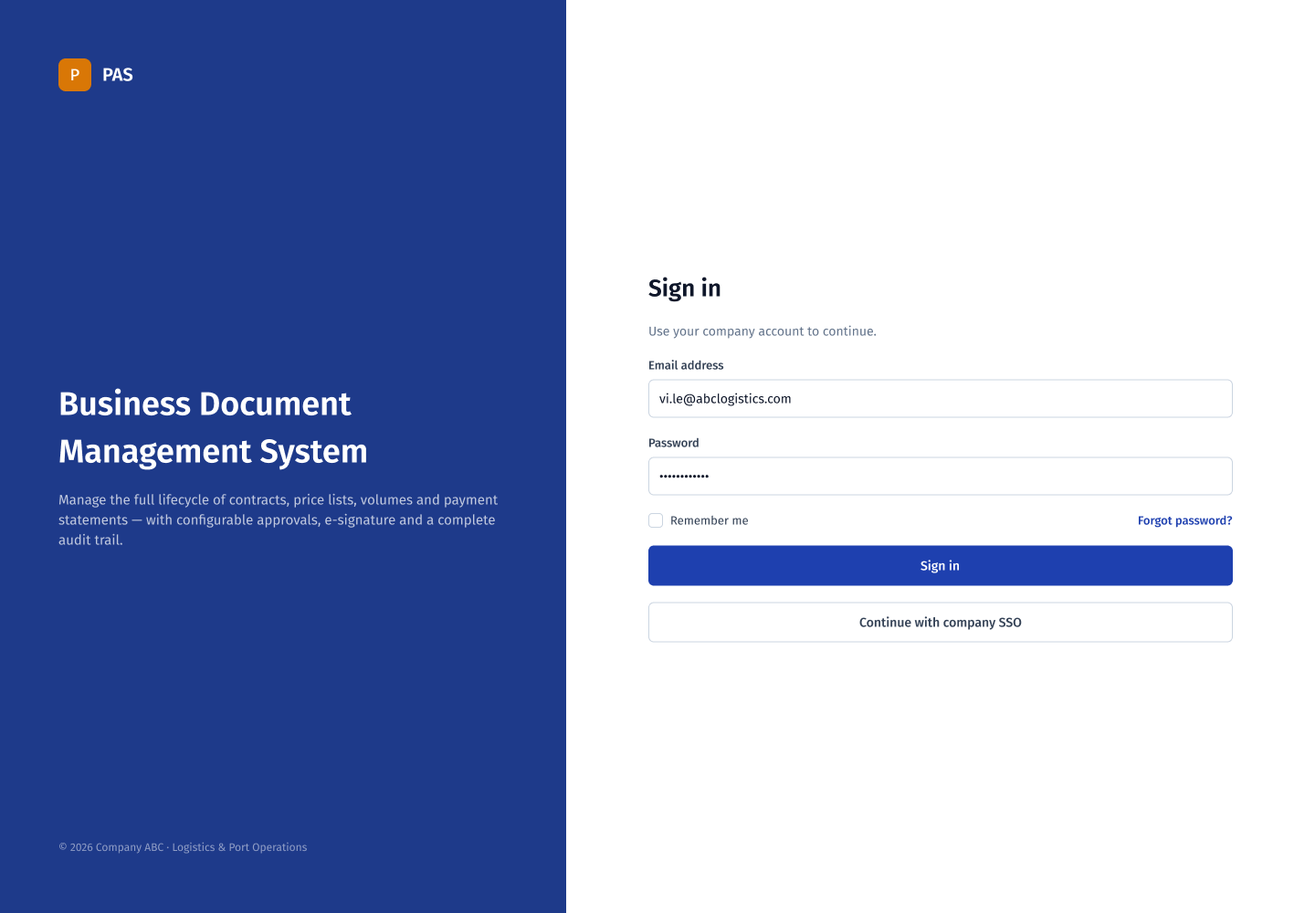
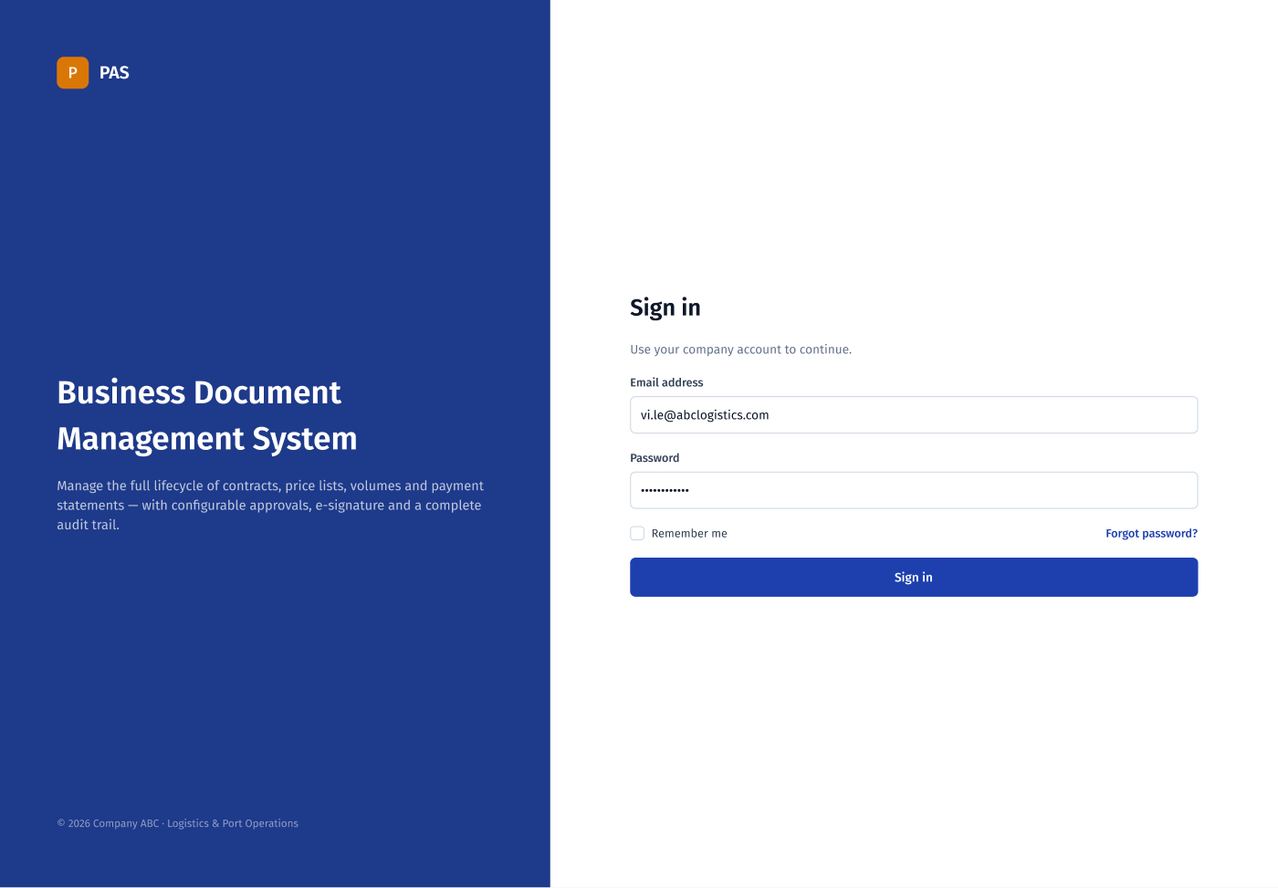
design: identity-service audit fixes (permissions, assignee scope, ER FKs, Figma)

diff --git a/scripts/gen_er_drawio.py b/scripts/gen_er_drawio.py
@@ -85,7 +85,14 @@ SPECS = {
                 ("FK", "department_id uuid", "department"),
                 ("", "status text", None),
                 ("", "last_login_at timestamptz", None),
-            ] + STD_COLS),
+                ("", "created_at timestamptz", None),
+                # Only identity-service has app_user in-schema with audit/actor columns —
+                # everywhere else created_by/updated_by/actor_id are opaque cross-schema
+                # uuids (D7/D12, no FK). Here they're genuinely local: real FK to app_user.
+                ("FK", "created_by uuid", "app_user"),
+                ("", "updated_at timestamptz", None),
+                ("FK", "updated_by uuid", "app_user"),
+            ]),
             ("role", 40, 320, [
                 ("PK", "id uuid", None),
                 ("", "code text", None),
@@ -104,7 +111,25 @@ SPECS = {
                 ("PK,FK", "role_id uuid", "role"),
                 ("PK,FK", "permission_id uuid", "permission"),
             ]),
-            (AUDIT_LOG[0], 760, 140, AUDIT_LOG[1]),
+            ("audit_log", 760, 140, [
+                ("PK", "id uuid", None),
+                ("", "entity_type text", None),
+                ("", "entity_id uuid", None),
+                ("", "entity_no text", None),
+                ("", "action text", None),
+                # In every other service audit_log.actor_id is an opaque cross-schema
+                # uuid (it names an identity.app_user, D7/D12, no FK). Identity is the
+                # one schema where actor_id points at a table it actually owns.
+                ("FK", "actor_id uuid", "app_user"),
+                ("", "actor_name text", None),
+                ("", "actor_department text", None),
+                ("", "before_status text", None),
+                ("", "after_status text", None),
+                ("", "changes jsonb", None),
+                ("", "note text", None),
+                ("", "ip_address text", None),
+                ("", "created_at timestamptz", None),
+            ]),
         ],
         "ghosts": [],
     },

diff --git a/docs/design/db/db-workflow.md b/docs/design/db/db-workflow.md
@@ -3,14 +3,21 @@
 Schema `workflow`, owned by workflow-service — the configurable approval engine (4.7). Diagram: [db-workflow.drawio](db-workflow.drawio).
 
 ## Key decisions
-- **Definition / instance split with pinned versions**: `workflow_definition.version_no` + partial unique `(document_type_id) WHERE is_active` (one active per doc type). Instances pin `definition_id`, so an admin edit mid-flight never mutates a running approval. Admin "edit" = insert new definition version + flip `is_active`.
+- **Definition / instance split with pinned versions**: `workflow_definition.version_no` + partial unique `(document_type_id) WHERE is_active` (one active per doc type). Instances pin `definition_id`, so an admin edit mid-flight never mutates a running approval. Admin "edit" = insert new definition version + flip `is_active`, gated by permission `workflow.configure` (checked against the caller's JWT `permissions[]` claim, registry §6 — not a schema concern here).
 - **Not a BPMN engine**: ordered sequential steps only. **Parallel approval is out of scope** — no requirement backs it and Figma shows only "Parallel: No"; noted so nobody adds a column speculatively.
-- **Conditional steps** (Figma "Condition: value > 1B"): `condition_expr` = a single comparison against instance snapshot fields (`document_value > 1000000000`), evaluated **once at instance creation**; unmet ⇒ step created as `SKIPPED`. Unevaluable (NULL operand, e.g. a value condition on a document without a value) ⇒ **not** skipped — conservative default. This keeps APR-02 intact (humans can never skip; config can).
+- **Conditional steps** (Figma "Condition: value > 1B"): `condition_expr` = a single comparison against instance snapshot fields (`document_value > 1000000000`), evaluated **once at instance creation**; unmet ⇒ step created as `SKIPPED`. Unevaluable (NULL operand, e.g. a value condition on a document without a value) ⇒ **not** skipped — conservative default. This keeps APR-02 intact (humans can never skip; config can). Assignee resolution (below) happens in the same pass, for every step that isn't `SKIPPED`.
 - **D4 double-submit**: partial unique index `(document_type_code, document_id) WHERE status='IN_PROGRESS'` — the second concurrent `POST /internal/workflow-instances` fails on the constraint and returns the existing instance (idempotent).
 - **D5 approve race**: `workflow_step_instance.version` optimistic lock — the action UPDATE carries `WHERE id=? AND version=? AND status='ACTIVE'`; the concurrent loser gets 0 rows and a 409, and the `status='ACTIVE'` predicate (not the version alone) is what rejects actions on completed or pending steps (APR-02).
 - **Cancellation**: `POST /internal/workflow-instances/{id}/cancel` (registry §5), called by the owner service inside its document-cancel flow (retried on failure, APR-07 spirit). Succeeds only while no step has been actioned (409 otherwise); sets instance → CANCELLED, the ACTIVE step → CANCELLED via the same version-guarded UPDATE (closing the approve-vs-cancel race), and all PENDING steps → CANCELLED. The same PENDING→CANCELLED sweep runs when an instance terminates early (REJECTED / REVISION_REQUESTED). No `instance_cancelled` event — inbox queries reflect the state immediately.
-- **Empty assignee resolution**: if a step's role resolves to zero users at instance creation, the submit fails with a clear error (admin must fix role assignments) — no instance is created, nothing strands.
-- **APR-01 contextual auth**: `step_assignee` rows are the **snapshot of who may act**, resolved from identity (`GET /internal/users?role=`) at step activation. Authorization = caller ∈ assignees of the ACTIVE step — role alone is insufficient by design ("Manager A can't approve Manager B's step"). No per-step user override (`approver_user_id` was considered and cut — registry §7 chains are role-only, nothing backs it). Inbox tabs: **Assigned to me** = ACTIVE steps where caller ∈ `step_assignee`; **Team queue** = ACTIVE steps whose `approver_role` ∈ caller's roles (catches users granted the role after activation); **Submitted by me** = instances where `requested_by` = caller; **Completed** = caller's past `workflow_action` rows.
+- **Resolution timing, made explicit**: `step_assignee` for **every** non-SKIPPED step — not just the first — is populated in the same instance-creation transaction as the condition-expr pass, by calling identity once per distinct role. This is deliberate, not lazy per-step resolution at activation: resolving the whole chain upfront is what lets a missing assignee on step 3 fail the submission immediately, instead of only surfacing after steps 1–2 are already approved.
+- **Empty assignee resolution**: if any step's role resolves to zero users at that instance-creation pass, the submit fails with a clear error (admin must fix role assignments) — no instance is created, nothing strands. Identity's `GET /internal/users?role=` returns `status='ACTIVE'` users only (registry §5), so a role whose every holder is `DISABLED` resolves to zero and hits this same safeguard, rather than silently assigning a step to someone who can never act on it.
+- **APR-01 contextual auth**: `step_assignee` rows are the **snapshot of who may act**, resolved from identity (`GET /internal/users?role=`) at instance creation (see above — not at step activation, which only flips `workflow_step_instance.status` to `ACTIVE` for whichever step is next). At instance creation, all `ACTIVE` users holding the configured step role are snapshotted into `step_assignee`. Only users in this snapshot may act; possessing the role later is insufficient. Disabled users and users granted the role after instance creation cannot act. This gives APR-01 meaningful contextual enforcement:
+  - Role holder but not in snapshot → denied
+  - Snapshotted assignee on an inactive/completed step → denied
+  - Snapshotted assignee on the current ACTIVE step → allowed
+
+  No per-step user override (`approver_user_id` was considered and cut — registry §7 chains are role-only, nothing backs it). Inbox tabs: **Assigned to me** = ACTIVE steps where caller ∈ `step_assignee`; **Submitted by me** = instances where `requested_by` = caller; **Completed** = caller's past `workflow_action` rows. No **Team queue** tab (dropped — see Figma discrepancies below); one consequence stated plainly: a user granted the role *after* an instance's step already activated has no way to see or act on that step. Accepted — nothing requires live reassignment, and building visibility for it would need the same claim/reassign machinery the drop is avoiding.
+- **APR-01 scope limitation, documented honestly**: per-manager document ownership is **not modeled**, because the requirements do not define document-to-manager assignment — no account/document-manager ownership concept, no assignee-selection algorithm, no UI for choosing a manager, and no per-step assignment strategy exist anywhere in requirement.md, UC v2, Figma, or the registry. Therefore, when a step's role resolves to more than one active user (e.g. two Legal Reviewers), **all of them** are valid assignees — the first valid action completes the step; concurrent actions are protected by optimistic locking (D5), not by narrowing to one specific person. This is a **documented interpretation** of the ambiguous contextual-authorization line in req §5.5 ("Manager A không được duyệt hồ sơ của Manager B nếu không phải assignee của bước hiện tại") — not a claim that req §5's general "nhóm được phép điều chỉnh" permission covers it (that sentence is specifically about adjusting the provided state-machine diagrams, D14, not about interpreting ambiguous authorization rules). Adding real per-manager ownership (e.g. a `customer.account_manager_id` restricting only the `SALES_MANAGER` steps to one specific user) would introduce a new business concept across schema, API, Figma, workflow resolution, and tests — a scoped later extension if the instructor confirms "Manager B's hồ sơ" means explicit account ownership, not something to introduce speculatively now.
 - **APR-03**: `workflow_action.comment` + `CHECK (action = 'APPROVE' OR (comment IS NOT NULL AND comment <> ''))`.
 - **Instance snapshots** (`document_no`, `customer_name`, `document_value`, `priority`): make the Approvals Inbox renderable without querying owner services and feed `condition_expr` + event payloads (D7). `priority` from Figma (LOW/NORMAL/HIGH/URGENT).
 - **E-sign is not a step** (D10 / 5.5): the Figma builder's "E-signature" card maps to `document_type_config.esign_enabled` + provider config; the engine ends at final approval (APR-05).
@@ -31,8 +38,9 @@ Schema `workflow`, owned by workflow-service — the configurable approval engin
 | 5.5 double submit / race | D4 partial unique / D5 version column |
 
 ## Figma adoptions / discrepancies
-- Adopted: step names, SLA, condition, priority, inbox tabs (Assigned to me / Submitted by me / Team queue / Completed — all queries over these tables).
+- Adopted: step names, SLA, condition, priority, inbox tabs (Assigned to me / Submitted by me / Completed — queries over these tables).
 - Discrepancy: drag-reorder = `step_order` updates on a **new** definition version.
+- Dropped: Figma's **Team queue** tab. Not in requirement.md or UC v2, not needed to satisfy APR-01 (which requires excluding non-assignees, not adding a broader role-pool view), and it would have surfaced tasks the viewer isn't actually the assignee of — no claim/reassign or view-only logic added to compensate.
 
 ## Constraints & indexes (not shown in the diagram)
 - Partial UNIQUE: `workflow_definition (document_type_id) WHERE is_active`; `workflow_instance (document_type_code, document_id) WHERE status = 'IN_PROGRESS'` (D4).

diff --git a/docs/design/00-registry.md b/docs/design/00-registry.md
@@ -82,7 +82,7 @@ All service-to-service calls (frontend→gateway→service omitted). Paths indic
 | billing → contract | `GET /internal/contracts/{id}` | validity, vat_rate, payment_term, customer snapshot (PAY-01) |
 | billing → pricing | `GET /internal/price-lists/effective?contract_id&customer_id&service_group&date` | effective version + lines for snapshot (PAY-01/03). Resolution precedence: CONTRACT-scoped > CUSTOMER+GROUP > CUSTOMER. `date` = the statement's `period_end`; lookup is **historical** — includes SUPERSEDED/EXPIRED versions whose validity contains `date` |
 | billing → operations | `GET /internal/volumes?contract_id&period_code` | volumes + period lock state (PAY-02) |
-| workflow → identity | `GET /internal/users?role={role_code}` | resolve step role → assignees at activation (APR-01) |
+| workflow → identity | `GET /internal/users?role={role_code}` | resolve step role → assignees for every non-SKIPPED step, in one pass at instance creation (APR-01); returns `status='ACTIVE'` users only |
 | esign → contract | `GET /internal/contracts/{id}/signing-payload` (also addenda) | document render for provider (D10) |
 | esign → billing | `GET /internal/payment-statements/{id}/signing-payload` | document render for provider (D10) |
 | owner services → workflow | `POST /internal/workflow-instances` (idempotent, D4) | start approval on submit |
@@ -90,7 +90,7 @@ All service-to-service calls (frontend→gateway→service omitted). Paths indic
 | owner services → workflow | `POST /internal/workflow-instances/{id}/cancel` | cancel in-flight approval when the document is cancelled (retried on failure, APR-07 spirit) |
 | approver (via gateway) → workflow | `POST /workflow-steps/{step_instance_id}/actions` | approve/reject/request-revision (D5, APR-01..03) |
 | owner services → esign | `POST /internal/signing-sessions` | manual send-for-signing (D10) |
-| notification → identity | `GET /internal/users?role={role_code}` | resolve `recipient_role`-addressed events to users (§4) |
+| notification → identity | `GET /internal/users?role={role_code}` | resolve `recipient_role`-addressed events to users (§4); returns `status='ACTIVE'` users only |
 | esign-mock-provider → esign | `POST /callbacks/esign` (webhook) | async sign result (APR-06) |
 
 ## 6. Common column & table conventions
@@ -98,7 +98,7 @@ All service-to-service calls (frontend→gateway→service omitted). Paths indic
 - `id UUID PK DEFAULT gen_random_uuid()`; `created_at timestamptz NOT NULL DEFAULT now()`; `created_by uuid` (+ `created_by_name text` where displayed); `updated_at`, `updated_by`; `version int NOT NULL DEFAULT 0` **only** where a race is real (D5 targets).
 - Status columns: `text` + `CHECK` against §3 enums.
 - Cross-service references: opaque `uuid` (+ business-number/name snapshot columns where the UI or history needs them, D7). Never a real FK across schemas. **Two business-key exceptions** (stable, human-legible codes): `pricing.service_item.code` (referenced as `service_code` by operations/billing) and `operations.operation_period.period_code` (referenced by billing).
-- **JWT claims** (issued by identity, checked at gateway D11): `sub` (user id), `username`, `full_name`, `department`, `roles[]` (§7 codes), `jti` (Redis blacklist key), `exp`.
+- **JWT claims** (issued by identity, checked at gateway D11): `sub` (user id), `username`, `full_name`, `department`, `roles[]` (§7 codes), `permissions[]` (§10 codes, computed by identity at issuance via `role_permission`), `jti` (Redis blacklist key), `exp`. Services checking a named permission (`volume.edit_locked`, `contract.cancel_active`, `statement.cancel_approved`, `workflow.configure`, `user.manage`, `audit.view_all`) read this claim directly — no sync call to identity; a permission grant/revoke takes effect at the user's next token issuance, same as role changes.
 - **audit_log** (one per service schema, written in-transaction):
   `id, entity_type text, entity_id uuid, entity_no text, action text (snake_case verb: submit_for_approval, approve_step, lock_volume_period, …), actor_id uuid NULL (NULL = system), actor_name text, actor_department text, before_status text, after_status text, changes jsonb, note text, ip_address text, created_at` (fields per Figma Audit Log screen).
 - **outbox** (only in event-emitting services with `Outbox? = yes`):
@@ -123,7 +123,7 @@ The Figma builder's "E-signature" card is **not** a step — it maps to `documen
 
 ## 8. Shared UI components (Figma)
 
-Status badge (label mapping §3) · workflow progress stepper (doc detail right panel) · approvals task inbox (Assigned to me / Submitted by me / Team queue / Completed) · notification bell + list (categories: `APPROVAL, ESIGN, EXPIRY, SYSTEM`) · document history tab (audit per entity) · reconciliation check panel (statement detail) · record metadata card.
+Status badge (label mapping §3) · workflow progress stepper (doc detail right panel) · approvals task inbox (Assigned to me / Submitted by me / Completed — no Team queue, dropped, see db-workflow.md) · notification bell + list (categories: `APPROVAL, ESIGN, EXPIRY, SYSTEM`) · document history tab (audit per entity) · reconciliation check panel (statement detail) · record metadata card.
 
 ## 9. Allowed state transitions
 
@@ -196,3 +196,7 @@ Status badge (label mapping §3) · workflow progress stepper (doc detail right 
 - 2026-07-24 — Phase 2 drafting delta: `document.expiring` payload +`owner_user_id`; `operations.period_locked` payload +`recipient_role`; recipient-resolution note; API matrix +notification→identity. Affected artifacts: db-notification.md (already consistent).
 - 2026-07-24 — Phase 2 critic round 1 fixes: event payloads +`requested_by`/`document_no`/`signer_name` (notification addressing); dropped `esign.session_started` event (no consumer need); workflow cancel endpoint (§5); pricing effective-lookup params + precedence + historical semantics (§5); predecessor-truncation footnote ³ (PRC-03×PRC-04); submit/cancel wiring footnote ¹; addendum-effect footnote ²; statement deviations footnote ⁴ (D14f); signing-session max-attempts→FAILED; JWT claims + business-key exceptions (§6); CUS numbering (§2). Affected artifacts: all db-* (verified in round 2).
 - 2026-07-24 — Figma corrected to match the requirement on the status-vocabulary and e-sign-as-step discrepancies this registry had recorded (plan §1.4): contract `ACTIVE` now displays "Active" (not "Effective"); payment statement `ISSUED` now displays "Issued" (not "Effective"); customer list now uses `Badge/Active`/`Badge/Suspended` directly (not document badges); Administration's workflow builder no longer renders e-signature as a numbered approval step (now a separate "Post-approval action" block). §3 display-label notes updated accordingly. Affected artifacts: db-contract.md, db-billing.md, db-workflow.md (updated in the same pass).
+- 2026-07-24 — Permission-propagation fix: identity's `permission`/`role_permission` tables had no path to the services that gate on them. JWT claims (§6) gain `permissions[]`, computed from `role_permission` at token issuance, checked locally by the owning service — no new sync endpoint. Affected artifacts: design-plan.md (D11), db-identity.md, db-contract.md, db-operations.md, db-billing.md, db-workflow.md.
+- 2026-07-24 — Assignee-resolution fix: `GET /internal/users?role={role_code}` (§5, both callers) now states it returns `status='ACTIVE'` users only — a `DISABLED` user can no longer be resolved as a new workflow step assignee or a `recipient_role` notification target. Also resolved a timing contradiction this introduced: §5 said assignees resolve "at activation" while db-workflow.md's empty-assignee-resolution safeguard assumed "at instance creation" — both can't be true. Unified on **instance creation**: assignees for every non-SKIPPED step are resolved in one pass when the instance is created (same pass as `condition_expr` evaluation), so a zero-assignee step anywhere in the chain fails the submission immediately instead of surfacing only when that step is later reached. Affected artifacts: db-identity.md, db-workflow.md, db-notification.md.
+- 2026-07-24 — Team queue tab dropped from the approvals task inbox (§8): not in requirement.md or UC v2, not needed for APR-01, and it surfaced tasks the viewer wasn't the actual assignee of — a broader-role-pool view the anti-over-engineering rule doesn't justify. Inbox is now 3 tabs: Assigned to me / Submitted by me / Completed. Accepted consequence: a user granted a role after a step activates has no visibility into that step (no claim/reassign mechanism exists, and none is being added). Affected artifacts: db-workflow.md, feedback.md, Figma Approvals Inbox screen (12-approvals-inbox.png).
+- 2026-07-24 — APR-01 assignment model locked as **Option A** (all active role-holders are valid assignees, no per-manager ownership) over two alternatives considered (candidates + concrete Workflow-side selection; config-identified specific manager) — both would require inventing an account-ownership concept, a selection algorithm, and a UI nowhere present in requirement.md/UC v2/Figma/registry. Documented as an explicit interpretation of req §5.5's ambiguous "Manager A/Manager B" contextual-authorization line, not as something req §5's general adjustment-permission clause covers (that clause is specifically about the provided state-machine diagrams, D14). Affected artifacts: db-workflow.md (APR-01 bullets rewritten with the enforcement invariants and the honest limitation).

diff --git a/docs/design/db/db-identity.md b/docs/design/db/db-identity.md
@@ -8,6 +8,9 @@ Schema `identity`, owned by identity-service. Diagram: [db-identity.drawio](db-i
 - **`last_login_at`, `status ACTIVE|DISABLED`**: from Figma Administration screen (user list shows both).
 - **No outbox / processed_event**: identity emits no events and consumes none; workflow and notification call it synchronously (`GET /internal/users?role=`).
 - Password hashing: bcrypt/argon2 — implementation detail, no schema impact beyond `password_hash text`.
+- **Permissions ride the JWT, not a lookup endpoint**: `permissions[]` is computed at token issuance (`user_role → role_permission → permission`) and embedded alongside `roles[]` (registry §6). This is why there's no `GET /internal/users/{id}/permissions` endpoint — contract, operations, billing and workflow each check their permission (`contract.cancel_active`, `volume.edit_locked`, `statement.cancel_approved`, `workflow.configure`) directly against the claim, the same way they'd check a role; identity-service checks its own `user.manage` the same way for its user/role administration endpoints, rather than special-casing itself. A grant/revoke via "Phân quyền" takes effect at the user's next token issuance, not immediately — accepted, same staleness `roles[]` already has.
+- **`GET /internal/users?role=` returns `status='ACTIVE'` users only** (registry §5): a `DISABLED` user can never be newly resolved as a workflow step assignee (APR-01) or a `recipient_role` notification target (§4) — closes the case where every holder of a role has left/been disabled and a submitted document would otherwise wait on someone who can no longer act. This is filtered here, at the resolution query, rather than left to the caller. Residual, accepted gap: a user disabled *after* already being snapshotted onto an active step isn't retroactively removed (`step_assignee` is a point-in-time snapshot, D7) — only strands the step if they were its sole assignee; live reassignment isn't attempted since no requirement asks for it.
+- **`app_user.created_by`/`updated_by` and `audit_log.actor_id` are real FKs here, unlike everywhere else**: every other service's `created_by`/`updated_by`/`actor_id` names a user in the *identity* schema, so it's rightly an opaque cross-schema `uuid` with no FK (D7/D12). Identity is the one schema where `app_user` and `audit_log` are local to each other — the diagram now draws these as real self-referencing FKs to `app_user.id` (previously it mechanically reused the cross-schema convention even here). All three are **nullable**: `created_by`/`updated_by` NULL for the system-seeded first user; `actor_id` NULL for automated actions (registry §6 audit_log shape already specifies this). FK action is `ON DELETE RESTRICT` (the Postgres default) — not `SET NULL` — because `app_user` rows are never physically deleted in this design, only flipped to `DISABLED` (registry §3 USER enum); there is no delete path for the constraint to react to.
 
 ## Seeds (registry §7, §10)
 Departments `SALES, LEGAL, ACCOUNTING, OPERATIONS, BOARD, IT`; roles `SALES_OFFICER, SALES_MANAGER, LEGAL_REVIEWER, ACCOUNTANT, OPS_OFFICER, DIRECTOR, SYSTEM_ADMIN`; permissions `volume.edit_locked, contract.cancel_active, statement.cancel_approved, workflow.configure, user.manage, audit.view_all`.
@@ -18,14 +21,18 @@ Departments `SALES, LEGAL, ACCOUNTING, OPERATIONS, BOARD, IT`; roles `SALES_OFFI
 | Admin UC "Quản lý người dùng" | `app_user` CRUD + `status` |
 | Admin UC "Phân quyền" | `user_role`, `role_permission` |
 | req §6 JWT | issued here; validated at gateway (D11 layer 1) |
-| APR-01 assignee resolution | `GET /internal/users?role=` consumed by workflow at step activation |
+| APR-01 assignee resolution | `GET /internal/users?role=` consumed by workflow once per role, for every non-SKIPPED step, at instance creation |
 | 4.5 "quyền đặc biệt" | permission `volume.edit_locked` |
+| Permission propagation (`contract.cancel_active`, `volume.edit_locked`, `statement.cancel_approved`, `workflow.configure`, `user.manage`) | `role_permission` joined into JWT `permissions[]` at issuance (registry §6) — no separate endpoint |
 
 ## Figma adoptions / discrepancies
 - Adopted: `last_login_at`, user `status` badge (Active/Disabled), department + role columns.
-- None contradicting requirements.
+- **Dropped: "Continue with company SSO"** (was on the login screen, node `8:32`). No requirement backing (req §6 asks for plain JWT auth only) and not cheap — a real implementation needs an external IdP, OAuth/SAML client config, and JIT user provisioning, none of which any other artifact assumes. Removed from the Figma login screen directly (not just noted) since, unlike the sidebar-by-role screen, this isn't a state worth demonstrating both ways — it's a permanent scope cut.
+- **Deferred: "Forgot password?"** (login screen, node `8:29`) — left in place in Figma as UI-only. No requirement backs a reset flow either, but unlike SSO it could be built cheaply later (a short-lived signed link, no `password_reset_token` table) if ever needed; no backend exists for it in this design, and the login screen keeps the link for visual completeness only.
+- None else contradicting requirements.
 
 ## Constraints & indexes (not shown in the diagram)
 - UNIQUE: `department.code`, `app_user.username`, `app_user.email`, `role.code`, `permission.code`.
 - Composite PKs: `user_role (user_id, role_id)`, `role_permission (role_id, permission_id)`.
 - `app_user.status` CHECK vs registry §3 USER enum; std cols per registry §6.
+- Self-referencing FKs (drawn in the diagram, unique to this schema — see Key decisions): `app_user.created_by → app_user.id`, `app_user.updated_by → app_user.id`, `audit_log.actor_id → app_user.id`; all three `NULL`able, `ON DELETE RESTRICT`.

diff --git a/docs/design-plan.md b/docs/design-plan.md
@@ -62,7 +62,7 @@ Decisions are numbered `D#` so artifacts and critics can reference them.
 - **D8 — Addendum price changes go through pricing, manually.** If an addendum changes unit prices, **Sales manually creates a new price list version from the addendum screen** after the addendum is approved; it carries `addendum_id`, `valid_from` = addendum effective date, and goes through the normal price-list approval flow. No automation, no `addendum.*` event. Billing therefore resolves prices from pricing-service only — one source of truth (4.3 "nghiệp vụ sau thời điểm hiệu lực dùng thông tin mới" + PRC-04).
 - **D9 — Expiry warnings** (contract/price list sắp hết hạn, 4.9): the *owning* service runs a scheduled check and emits `document.expiring` events — published **directly, without outbox**: a lost warning self-heals on the next scheduled run, so outbox here would be over-engineering. Notification-service never queries other services' data.
 - **D10 — E-sign scope & initiation.** E-sign applies to **contracts, addenda and payment statements** (price lists are internal, never signed). Backing: req 4.8 speaks of "hồ sơ" generically, req §2 gives Sales "theo dõi tình trạng ký kết" (tracking contract signing), and the Figma E-Signatures screen shows CTR/ADD/PMT sessions. esign-service is generic over `(document_type, document_id)`. **Send-for-signing is a manual action by the document owner** (Accounting for statements per use case edge e18; Sales for contracts/addenda) on an **Approved** document; esign-service fetches the signing payload via a sync GET from the owning service. No event-triggered auto-send on approval (APR-05's "có thể" is exercised as a manual trigger). Signing status is a **separate** state machine from approval status (5.5 last row) — in particular, e-sign is **not** a workflow step even though the Figma admin builder renders it as one: the builder card maps to `document_type_config` (esign enabled + provider), and the document-detail timeline is a composed view (workflow steps + signing session status). Signing is **optional** for contracts/addenda: an Approved contract with no signing session still becomes Active at its effective date.
-- **D11 — Two-layer authorization.** Gateway: JWT validity + coarse role check. Services: contextual checks — especially workflow-service verifying *the caller is the assignee of the current step* (APR-01: "kiểm tra role là chưa đủ").
+- **D11 — Two-layer authorization.** Gateway: JWT validity + coarse role check. Services: contextual checks — especially workflow-service verifying *the caller is the assignee of the current step* (APR-01: "kiểm tra role là chưa đủ"). Named permissions (`volume.edit_locked`, `contract.cancel_active`, `statement.cancel_approved`, `workflow.configure`, `user.manage`, `audit.view_all` — registry §10) are checked by the owning service directly against the JWT's `permissions[]` claim (registry §6) — no separate sync call to identity; same mechanism and staleness as `roles[]`.
 - **D12 — DB layout.** One PostgreSQL instance in dev, **schema per service**, no cross-schema queries (justification req §6 demands: service isolation with student-project ops simplicity; swap to DB-per-service in K8s if desired without design change).
 - **D13 — Tech stack for design artifacts.** Backend assumed FastAPI (Python) for concreteness in sequence diagrams; nothing in the diagrams may depend on it beyond naming.
 - **D14 — Transition table + documented deviations.** The registry holds an **allowed-transitions table** per document type: `(from_status, trigger, to_status)` with `trigger ∈ {user action, workflow event, scheduler}` — the single source for schema CHECKs, sequence arrows, and UI action visibility. Four holes in the requirement's state diagrams are resolved as documented deviations (permitted by req §5 "nhóm được phép điều chỉnh, nhưng phải giải thích"):

diff --git a/docs/design/db/db-operations.md b/docs/design/db/db-operations.md
@@ -5,7 +5,7 @@ Schema `operations`, owned by operations-service. Diagram: [db-operations.drawio
 ## Key decisions
 - **Global monthly period** (`period_code 'YYYY-MM'`), one lock for all customers/contracts (plan 2.4 default). Simplest model satisfying 4.5; per-customer locking has no requirement backing.
 - **Lock = confirmation (PAY-02)**: a volume record has **no per-record status** — the period's `LOCKED` state is the "đã xác nhận/đối soát" signal billing checks. One mechanism instead of two.
-- **No unlock transition** (registry §9). Post-lock edits: permission `volume.edit_locked` + mandatory audit entry (4.5 "quyền đặc biệt"). Deliberately not schema-enforced — the service checks period status + permission.
+- **No unlock transition** (registry §9). Post-lock edits: permission `volume.edit_locked` + mandatory audit entry (4.5 "quyền đặc biệt"). Deliberately not schema-enforced — the service checks period status + permission (read from the caller's JWT `permissions[]` claim, registry §6 — no sync call to identity).
 - **`contract_id` required** on `volume_record` even though the Figma list omits the column: statements are per contract (PAY-01), so volume→contract mapping must be unambiguous at entry time, not inferred later. `customer_name`/`service_name`/`unit` snapshots make the Figma list renderable without cross-service joins (D7).
 - **Events**: emits `operations.period_locked` (direct publish — informational "statements can now be generated" notification, Figma; a lost one costs nothing). Consumes nothing → no processed_event.
 

diff --git a/docs/design/db/db-notification.md b/docs/design/db/db-notification.md
@@ -4,7 +4,7 @@ Schema `notification`, owned by notification-service — pure event consumer (4.
 
 ## Key decisions
 - **One table + dedup**: `notification` (per recipient) + `processed_event` (idempotent consumption, D6). Nothing else — notifications are not business documents, so no audit_log, no outbox, no versioning.
-- **Recipient resolution** per event type: assignee/requester user ids come straight from event payloads (`assignee_ids`, `requested_by`, `owner_user_id`); role-addressed events (`operations.period_locked` → ACCOUNTANTs) resolve via identity `GET /internal/users?role=` (§5 matrix). One event → N notification rows.
+- **Recipient resolution** per event type: assignee/requester user ids come straight from event payloads (`assignee_ids`, `requested_by`, `owner_user_id`); role-addressed events (`operations.period_locked` → ACCOUNTANTs) resolve via identity `GET /internal/users?role=` (§5 matrix; `status='ACTIVE'` users only, so disabled accounts are never sent a notification). One event → N notification rows.
 - **`category`** (`APPROVAL | ESIGN | EXPIRY | SYSTEM`) drives the Figma tab filters; `event_id` traces each row to its source event.
 - **Read state**: `read_at` timestamp (null = unread); "Mark all as read" = bulk UPDATE. Unread badge = `COUNT WHERE read_at IS NULL`.
 - **Figma "Preferences" button is out of scope**: per-user notification preferences have no requirement backing (4.9 lists fixed triggers) — recorded as a deliberate drop; revisit only if the team wants it.

diff --git a/docs/design/db/db-contract.md b/docs/design/db/db-contract.md
@@ -22,7 +22,7 @@ Schema `contract`, owned by contract-service (customers + contracts + addenda me
 | CTR-03 | no DRAFT→APPROVED transition in registry §9; flips only via `workflow.completed` |
 | CTR-04 | REJECTED→DRAFT only via explicit `revise` action (audit-logged) |
 | CTR-05 | scheduler flips APPROVED/SIGNED→ACTIVE at `valid_from` (D14d) |
-| CTR-06 | no DELETE endpoint for ACTIVE; controlled cancel needs `contract.cancel_active` (D14a) |
+| CTR-06 | no DELETE endpoint for ACTIVE; controlled cancel needs `contract.cancel_active` (JWT `permissions[]`, registry §6; D14a) |
 | CTR-07 | terms changes on APPROVED/ACTIVE → `addendum` row, contract row untouched |
 | 4.1 lookup by customer | `customer_id` FK here; price lists/statements queried cross-service by `customer_id` |
 | 4.2 attachments, renewal, cancel | `attachment`, `addendum(TERM_EXTENSION)`, cancel transitions |

diff --git a/docs/design/db/db-billing.md b/docs/design/db/db-billing.md
@@ -20,7 +20,7 @@ Schema `billing`, owned by billing-service — the integration hub. Diagram: [db
 | PAY-02 | volumes only from LOCKED period; `statement_line_volume` trace |
 | PAY-03 | snapshot columns (above) |
 | PAY-04 | `CHECK total_amount >= 0` + required-lines app check at submit |
-| PAY-05 | immutability after APPROVED/SIGNED (app + §9); `adjusts_statement_id`; controlled cancel D14c |
+| PAY-05 | immutability after APPROVED/SIGNED (app + §9); `adjusts_statement_id`; controlled cancel D14c, gated by `statement.cancel_approved` (JWT `permissions[]`, registry §6) |
 | PAY-06 | send-e-sign transition only from APPROVED (§9) |
 | PAY-07 | SIGNING → REVISION on failed/cancelled callback (§9) |
 | 4.6 list of services, unit price, qty, amounts, tax, total | `statement_line` + statement totals |
